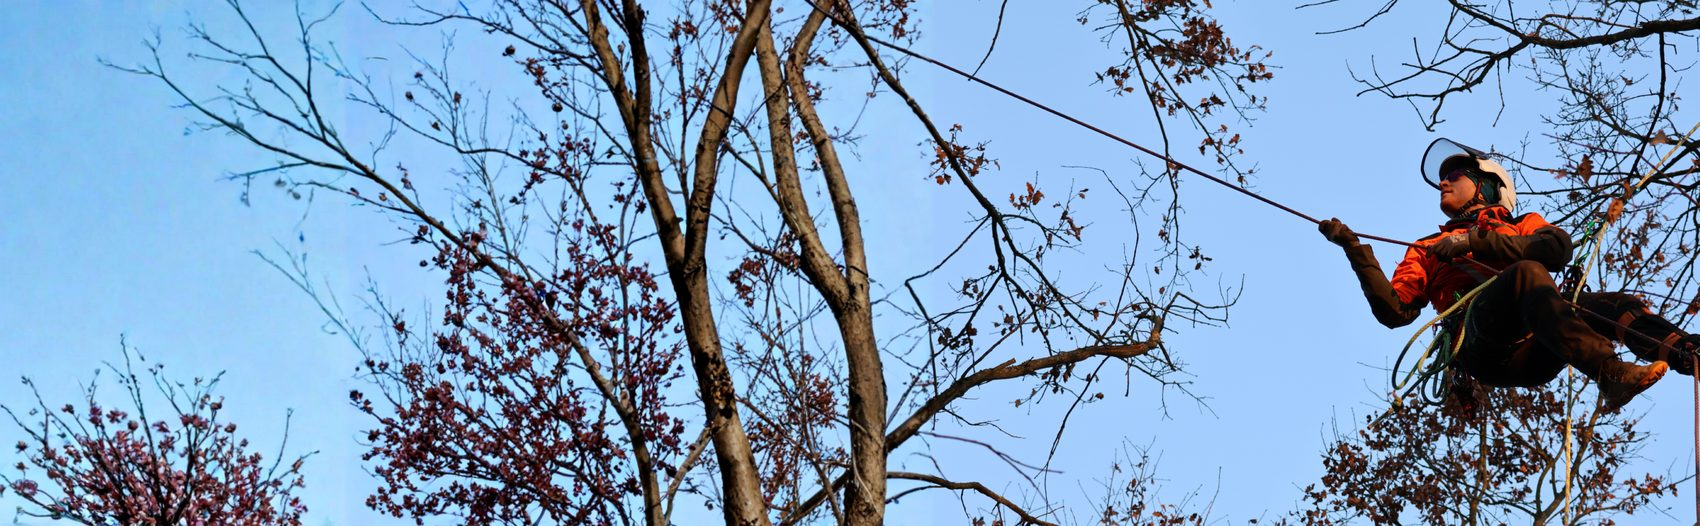
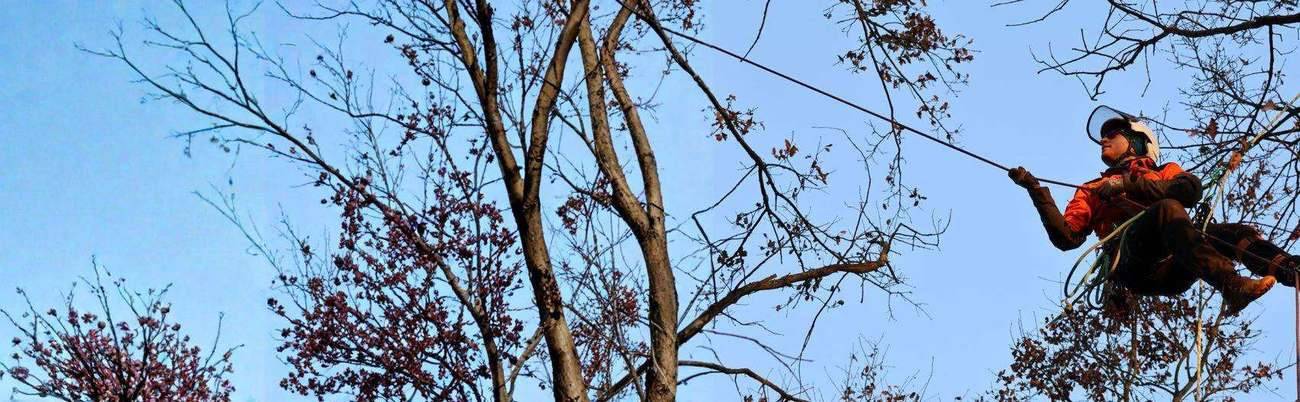
Cut image payload substantially to help with perceived slowness
Swap the leistungen intro's background photo for a dedicated small,
low-quality variant (it's 90%+ covered by a dark overlay anyway, so
detail was wasted). Recompress and downsize the four service banner
photos to fit their actual display size instead of near-source
resolution. Shrink the logo icon PNGs from 240px to 120px since they
only ever render at ~32px. Remove the unused faellung.jpg.

leistungen.html's image weight drops from ~1.6MB to well under 700KB;
the logo icon savings apply site-wide since every page loads it.

Claude-Session: https://claude.ai/code/session_01MKmo6XJsP7AoNW5oYrvkD7

diff --git a/leistungen.html b/leistungen.html
@@ -221,8 +221,8 @@
 <header id="siteHeader">
   <div class="nav-inner">
     <a href="index.html" class="brand">
-      <img src="img/logo-icon-light.png" alt="" class="icon-light" width="240" height="237">
-      <img src="img/logo-icon-dark.png" alt="" class="icon-dark" width="240" height="237">
+      <img src="img/logo-icon-light.png" alt="" class="icon-light" width="120" height="118">
+      <img src="img/logo-icon-dark.png" alt="" class="icon-dark" width="120" height="118">
       Spiehl <em>Baumgutachten</em>
     </a>
     <div class="nav-links">
@@ -246,7 +246,7 @@
 </div>
 
 <section class="intro-split" id="main-content">
-  <div class="intro-bg"><img src="img/klettern.jpg" alt="" width="933" height="1400" decoding="async"></div>
+  <div class="intro-bg"><img src="img/klettern-bg.jpg" alt="" width="450" height="675" decoding="async"></div>
   <div class="container intro-grid">
     <div class="intro-left reveal">
       <div class="kicker">// Leistungen</div>
@@ -282,7 +282,7 @@
       <p>Regelmäßige Kontrollpflicht, Auffälligkeiten nach Sturm, Verdacht auf Schädlingsbefall oder Fäule, Vorbereitung von Bauvorhaben in Baumnähe.</p>
       <div class="svc-tags"><span>Sichtkontrolle</span><span class="sep">/</span><span>Verkehrssicherheit</span><span class="sep">/</span><span>Dokumentation</span></div>
     </div>
-    <img src="img/kontrolle.jpg" alt="Sichtkontrolle der Baumkrone vor Ort" class="svc-photo reveal d3" style="object-position: 50% 72%;" width="829" height="1100" loading="lazy" decoding="async">
+    <img src="img/kontrolle.jpg" alt="Sichtkontrolle der Baumkrone vor Ort" class="svc-photo reveal d3" style="object-position: 50% 72%;" width="760" height="1008" loading="lazy" decoding="async">
   </div>
 </section>
 
@@ -301,7 +301,7 @@
       <p>Sichtbare Fäulnisanzeichen, Pilzfruchtkörper, Rindenschäden, Verdacht auf Hohlräume nach äußerlicher Kontrolle.</p>
       <div class="svc-tags"><span>Schalltomographie</span><span class="sep">/</span><span>Bohrwiderstand</span><span class="sep">/</span><span>Zerstörungsarm</span></div>
     </div>
-    <img src="img/kletterarbeit.jpg" alt="Seilklettertechnik zur Untersuchung der Krone in luftiger Höhe" class="svc-photo reveal d3" style="object-position: 90% 55%;" width="1700" height="526" loading="lazy" decoding="async">
+    <img src="img/kletterarbeit.jpg" alt="Seilklettertechnik zur Untersuchung der Krone in luftiger Höhe" class="svc-photo reveal d3" style="object-position: 90% 55%;" width="1300" height="402" loading="lazy" decoding="async">
   </div>
 </section>
 
@@ -320,7 +320,7 @@
       <p>Sichtbare Schiefstellung, Wurzelschäden durch Erdarbeiten, Freistellung nach Fällungen in der Umgebung, Sturmschäden in der Nachbarschaft.</p>
       <div class="svc-tags"><span>Zugversuch</span><span class="sep">/</span><span>Wurzelraum</span><span class="sep">/</span><span>Objektive Messung</span></div>
     </div>
-    <img src="img/messung.jpg" alt="Zugversuch am Stamm mit Messtechnik zur Beurteilung der Standsicherheit" class="svc-photo reveal d3" width="1300" height="867" loading="lazy" decoding="async">
+    <img src="img/messung.jpg" alt="Zugversuch am Stamm mit Messtechnik zur Beurteilung der Standsicherheit" class="svc-photo reveal d3" width="950" height="634" loading="lazy" decoding="async">
   </div>
 </section>
 
@@ -339,7 +339,7 @@
       <p>Schäden durch Dritte, Streitfälle mit Nachbarn, Wertermittlung im Rahmen von Grundstücksgeschäften.</p>
       <div class="svc-tags"><span>Wertermittlung</span><span class="sep">/</span><span>Versicherungsfälle</span><span class="sep">/</span><span>Nachvollziehbar</span></div>
     </div>
-    <img src="img/untersuchung.jpg" alt="Eingehende Untersuchung des Baumbestands vor Ort" class="svc-photo reveal d3" style="object-position: 50% 35%;" width="1300" height="867" loading="lazy" decoding="async">
+    <img src="img/untersuchung.jpg" alt="Eingehende Untersuchung des Baumbestands vor Ort" class="svc-photo reveal d3" style="object-position: 50% 35%;" width="950" height="634" loading="lazy" decoding="async">
   </div>
 </section>
 
@@ -357,7 +357,7 @@
   <div class="container">
     <div class="footer-grid">
       <div>
-        <a href="index.html" class="brand"><img src="img/logo-icon-light.png" alt="" width="240" height="237">Spiehl <em style="color:#C9AC6E;font-style:italic;">Baumgutachten</em></a>
+        <a href="index.html" class="brand"><img src="img/logo-icon-light.png" alt="" width="120" height="118">Spiehl <em style="color:#C9AC6E;font-style:italic;">Baumgutachten</em></a>
         <p>Zertifizierte Baumgutachten und Sicherheitsprüfungen im Odenwald und Rhein-Main-Gebiet.</p>
       </div>
       <div class="footer-col">

diff --git a/kontakt.html b/kontakt.html
@@ -203,8 +203,8 @@
 <header id="siteHeader">
   <div class="nav-inner">
     <a href="index.html" class="brand">
-      <img src="img/logo-icon-light.png" alt="" class="icon-light" width="240" height="237">
-      <img src="img/logo-icon-dark.png" alt="" class="icon-dark" width="240" height="237">
+      <img src="img/logo-icon-light.png" alt="" class="icon-light" width="120" height="118">
+      <img src="img/logo-icon-dark.png" alt="" class="icon-dark" width="120" height="118">
       Spiehl <em>Baumgutachten</em>
     </a>
     <div class="nav-links">
@@ -311,7 +311,7 @@
   <div class="container">
     <div class="footer-grid">
       <div>
-        <a href="index.html" class="brand"><img src="img/logo-icon-light.png" alt="" width="240" height="237">Spiehl <em style="color:#C9AC6E;font-style:italic;">Baumgutachten</em></a>
+        <a href="index.html" class="brand"><img src="img/logo-icon-light.png" alt="" width="120" height="118">Spiehl <em style="color:#C9AC6E;font-style:italic;">Baumgutachten</em></a>
         <p>Zertifizierte Baumgutachten und Sicherheitsprüfungen im Odenwald und Rhein-Main-Gebiet.</p>
       </div>
       <div class="footer-col">

diff --git a/ueber-mich.html b/ueber-mich.html
@@ -209,8 +209,8 @@
 <header id="siteHeader">
   <div class="nav-inner">
     <a href="index.html" class="brand">
-      <img src="img/logo-icon-light.png" alt="" class="icon-light" width="240" height="237">
-      <img src="img/logo-icon-dark.png" alt="" class="icon-dark" width="240" height="237">
+      <img src="img/logo-icon-light.png" alt="" class="icon-light" width="120" height="118">
+      <img src="img/logo-icon-dark.png" alt="" class="icon-dark" width="120" height="118">
       Spiehl <em>Baumgutachten</em>
     </a>
     <div class="nav-links">
@@ -297,7 +297,7 @@
   <div class="container">
     <div class="footer-grid">
       <div>
-        <a href="index.html" class="brand"><img src="img/logo-icon-light.png" alt="" width="240" height="237">Spiehl <em style="color:#C9AC6E;font-style:italic;">Baumgutachten</em></a>
+        <a href="index.html" class="brand"><img src="img/logo-icon-light.png" alt="" width="120" height="118">Spiehl <em style="color:#C9AC6E;font-style:italic;">Baumgutachten</em></a>
         <p>Zertifizierte Baumgutachten und Sicherheitsprüfungen im Odenwald und Rhein-Main-Gebiet.</p>
       </div>
       <div class="footer-col">

diff --git a/datenschutz.html b/datenschutz.html
@@ -55,7 +55,7 @@
 <body>
 <a href="#main-content" class="skip-link">Zum Hauptinhalt springen</a>
 <nav><div class="nav-inner">
-  <a href="index.html" class="brand"><img src="img/logo-icon-dark.png" alt="" width="240" height="237">Spiehl <em>Baumgutachten</em></a>
+  <a href="index.html" class="brand"><img src="img/logo-icon-dark.png" alt="" width="120" height="118">Spiehl <em>Baumgutachten</em></a>
   <a href="index.html" class="back">← Zurück zur Startseite</a>
 </div></nav>
 <main id="main-content"><div class="container">

diff --git a/impressum.html b/impressum.html
@@ -52,7 +52,7 @@
 <body>
 <a href="#main-content" class="skip-link">Zum Hauptinhalt springen</a>
 <nav><div class="nav-inner">
-  <a href="index.html" class="brand"><img src="img/logo-icon-dark.png" alt="" width="240" height="237">Spiehl <em>Baumgutachten</em></a>
+  <a href="index.html" class="brand"><img src="img/logo-icon-dark.png" alt="" width="120" height="118">Spiehl <em>Baumgutachten</em></a>
   <a href="index.html" class="back">← Zurück zur Startseite</a>
 </div></nav>
 <main id="main-content"><div class="container">

diff --git a/index.html b/index.html
@@ -168,7 +168,7 @@
 <div class="page">
   <header>
     <div class="nav-inner">
-      <a href="index.html" class="brand"><img src="img/logo-icon-light.png" alt="" width="240" height="237">Spiehl <em>Baumgutachten</em></a>
+      <a href="index.html" class="brand"><img src="img/logo-icon-light.png" alt="" width="120" height="118">Spiehl <em>Baumgutachten</em></a>
       <div class="nav-links">
         <a href="leistungen.html" class="link">Leistungen</a>
         <a href="ueber-mich.html" class="link">Über mich</a>
